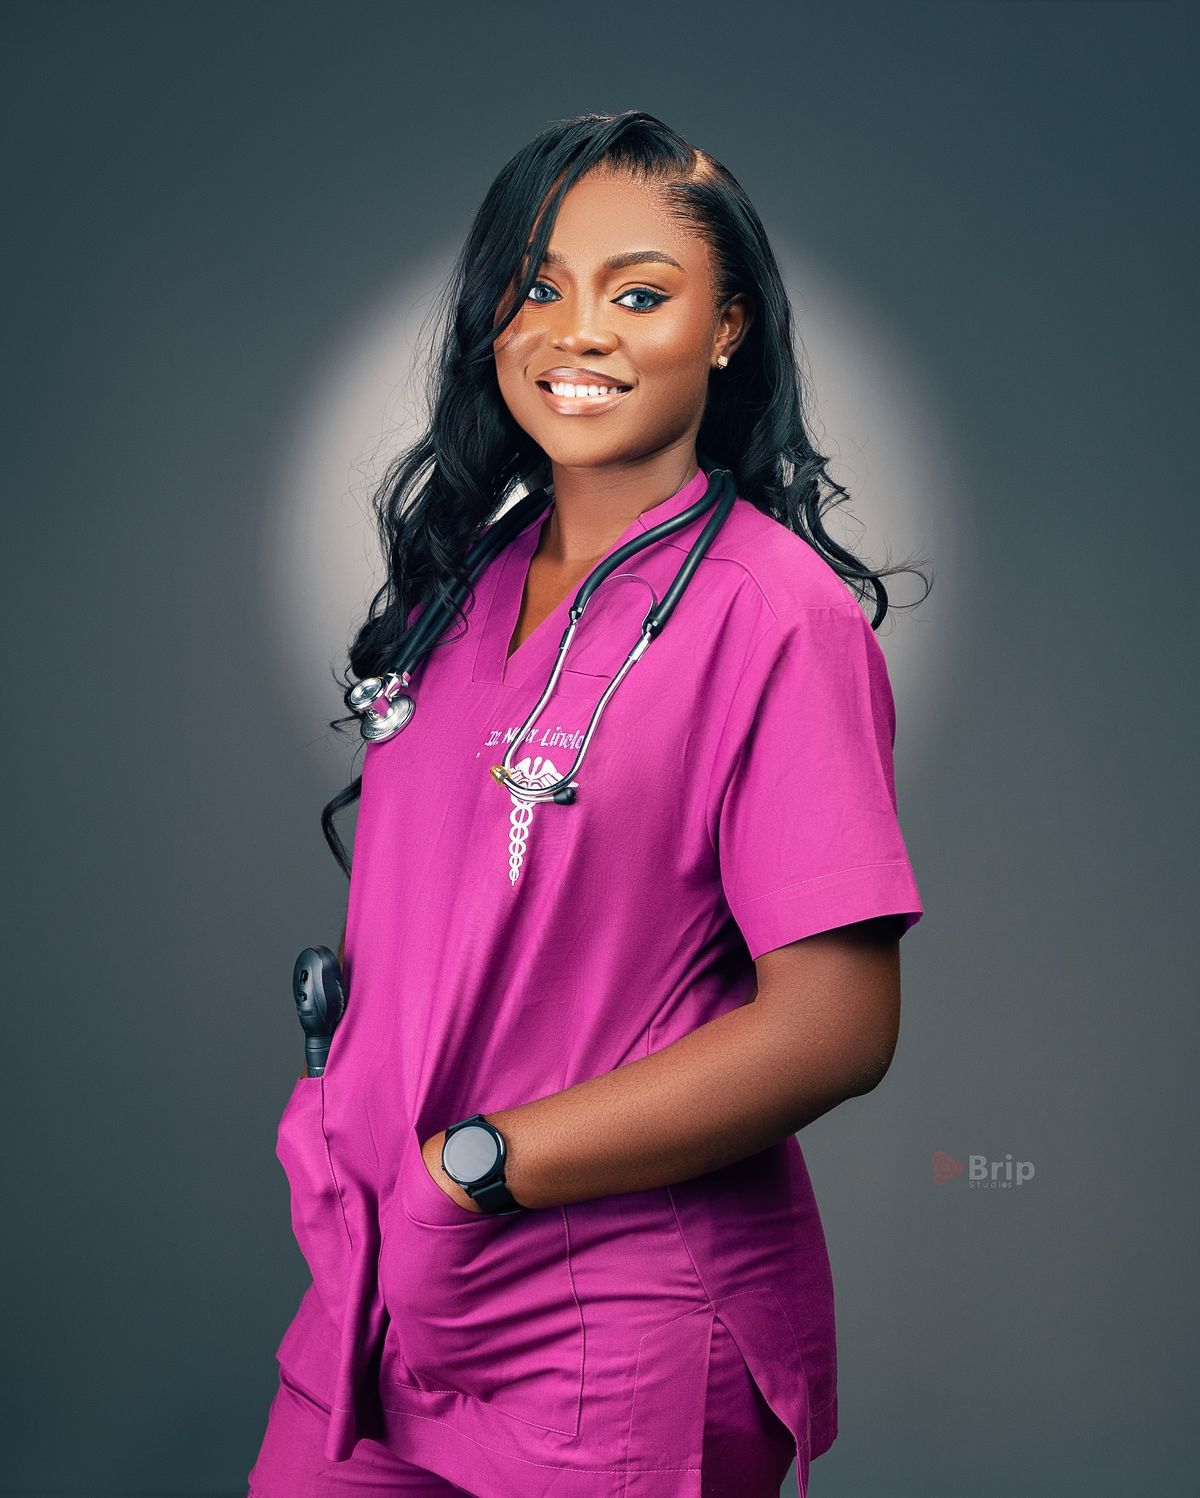
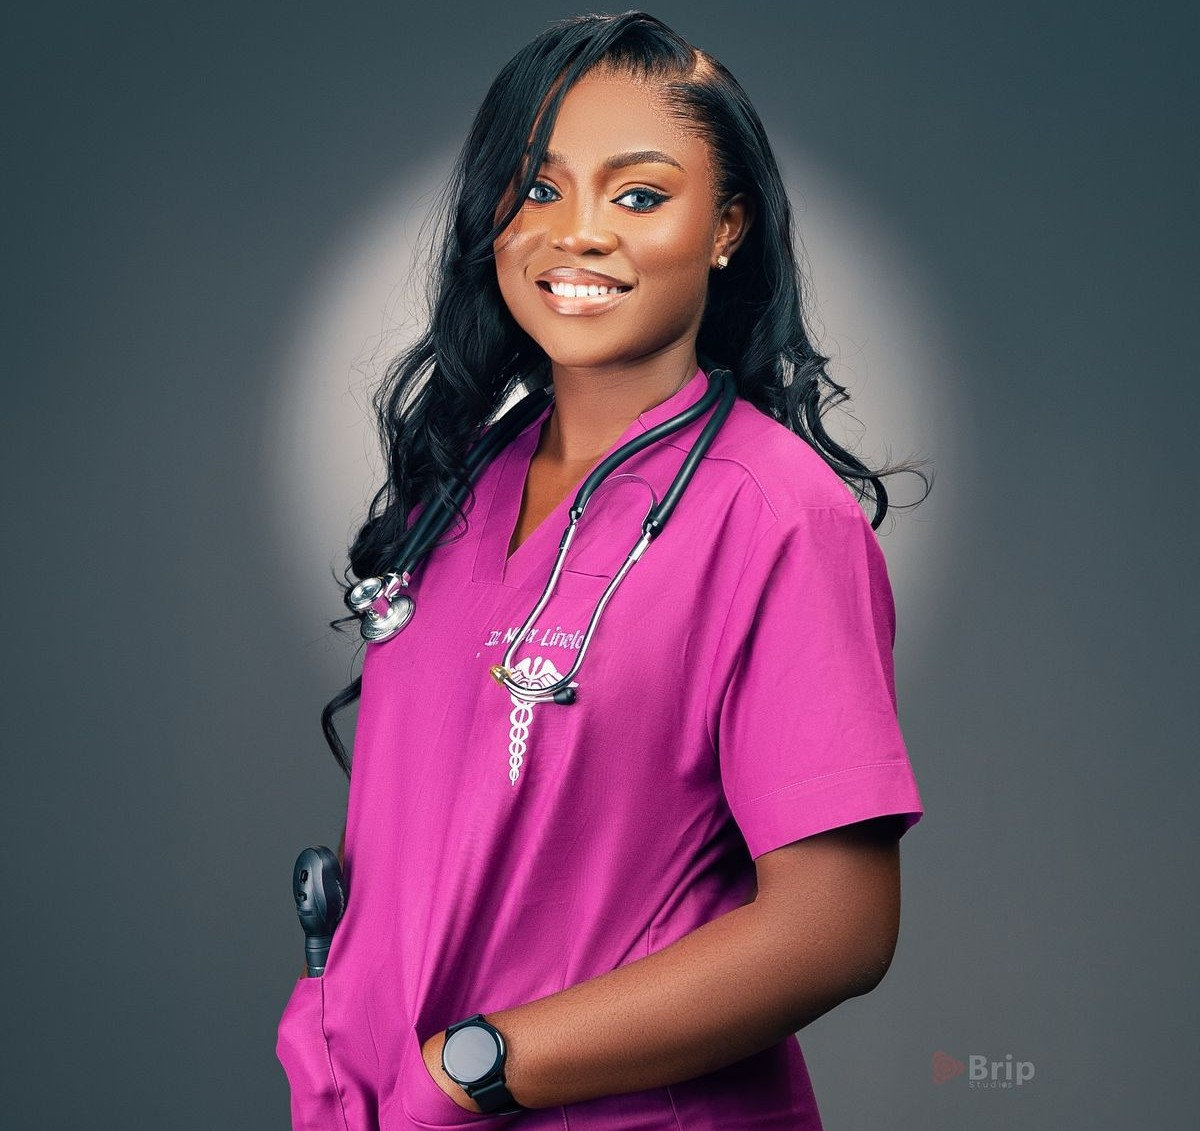
modifs

Changed region(s): [[0.185, 0.0, 0.7708, 1.0], [0.7708, 0.9284, 0.8633, 0.9593], [0.8017, 0.7737, 0.8633, 0.8046]]

diff --git a/apropos.php b/apropos.php
@@ -89,7 +89,7 @@ include 'includes/header.php';
                         </div>
                     </div>
                 </div>
-                <div class="position-absolute top-0 start-0 w-100 h-100 bg-primary opacity-10 rounded-4" style="transform: translate(15px, 15px); z-index: 0;"></div>
+                <img src="assets/images/hero2.jpg" alt="Sama Docteur" class="position-absolute top-0 start-0 w-100 h-100 rounded-4" style="transform: translate(15px, 15px); z-index: 0; object-fit: contain; object-position: center; background-color: #fff;" onerror="this.src='assets/images/doc4.jpg'" />
             </div>
         </div>
     </div>
